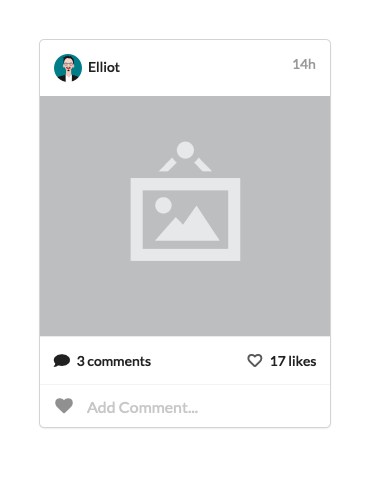
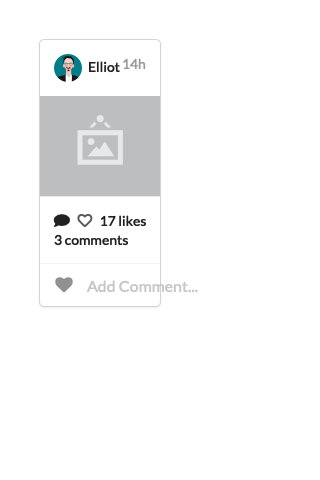
maybe screenshot force is not needed anymore 2

diff --git a/docs/index.html b/docs/index.html
@@ -193,11 +193,10 @@ $(document).ready(function () {
 <div id="shiny.semantic" class="section level1">
 <h1>shiny.semantic</h1>
 <div class="subheader">
-Semantic UI wrapper for Shiny
+<p>Semantic UI wrapper for Shiny</p>
+<p></br></p>
[1 lines of base64/hex data omitted]
 </div>
-<center>
[1 lines of base64/hex data omitted]
-</center>
 <div class="section level2">
 <p>With this library it’s easy to wrap Shiny with <a href="https://github.com/Semantic-Org/Semantic-UI">Semantic UI components</a>. Add a few simple lines of code and some CSS classes to give your UI a fresh, modern and highly interactive look.</p>
 <p><code>master</code> branch contains the stable version. Use <code>develop</code> branch for latest features.</p>
@@ -206,22 +205,18 @@ Semantic UI wrapper for Shiny
 <h2>
 Before
 </h2>
-<br>
-<center>
-<div id="htmlwidget-6549bb56c07b2754489d" style="width:100%;height:90%;" class="uirender html-widget"></div>
-<script type="application/json" data-for="htmlwidget-6549bb56c07b2754489d">{"x":{"ui":"<div class=\"demo\">\n  <div class=\"container-fluid\">\n    <div style=\"margin-left: 20px; background: white\">\n      <div>\n        <div>\n          <a>Client's info<\/a>\n          <p><\/p>\n          <table  class = 'table shiny-table table- spacing-s' style = 'width:auto;'>\n<thead> <tr> <th style='text-align: left;'> Name <\/th> <th style='text-align: left;'> City <\/th> <th style='text-align: left;'> Revenue <\/th>  <\/tr> <\/thead> <tbody>\n  <tr> <td> John Smith <\/td> <td> Warsaw, Poland <\/td> <td> $210.50 <\/td> <\/tr>\n  <tr> <td> Lindsay More <\/td> <td> SF, United States <\/td> <td> $172.78 <\/td> <\/tr>\n   <\/tbody> <\/table>\n        <\/div>\n      <\/div>\n    <\/div>\n  <\/div>\n<\/div>"},"evals":[],"jsHooks":[]}</script>
-</center>
+<p><br></p>
+<div id="htmlwidget-e8143136d124ec330d96" style="width:100%;height:90%;" class="uirender html-widget"></div>
+<script type="application/json" data-for="htmlwidget-e8143136d124ec330d96">{"x":{"ui":"<div class=\"demo\">\n  <div class=\"container-fluid\">\n    <div style=\"margin-left: 20px; background: white\">\n      <div>\n        <div>\n          <a>Client's info<\/a>\n          <p><\/p>\n          <table  class = 'table shiny-table table- spacing-s' style = 'width:auto;'>\n<thead> <tr> <th style='text-align: left;'> Name <\/th> <th style='text-align: left;'> City <\/th> <th style='text-align: left;'> Revenue <\/th>  <\/tr> <\/thead> <tbody>\n  <tr> <td> John Smith <\/td> <td> Warsaw, Poland <\/td> <td> $210.50 <\/td> <\/tr>\n  <tr> <td> Lindsay More <\/td> <td> SF, United States <\/td> <td> $172.78 <\/td> <\/tr>\n   <\/tbody> <\/table>\n        <\/div>\n      <\/div>\n    <\/div>\n  <\/div>\n<\/div>"},"evals":[],"jsHooks":[]}</script>
 </div>
 <br>
 <div class="column">
 <h2>
 After
 </h2>
-<br>
-<center>
-<div id="htmlwidget-a8ea57fbcec17f3ec900" style="width:100%;height:90%;" class="uirender html-widget"></div>
-<script type="application/json" data-for="htmlwidget-a8ea57fbcec17f3ec900">{"x":{"ui":"<div class=\"demo\">\n  <body style=\"min-height: 611px;\">\n    <div class=\"wrapper\">\n      <div class=\"ui raised segment\" style=\"margin-left: 20px; max-width: 350px; width: 100%\">\n        <a class=\"ui green ribbon label\">Client's info<\/a>\n        <p><\/p>\n        <!-- html table generated in R 3.5.1 by xtable 1.8-3 package -->\n<!-- Fri Apr  5 12:47:34 2019 -->\n<table class = 'ui very basic collapsing celled table'>\n<tr> <th> Name <\/th> <th> City <\/th> <th> Revenue <\/th>  <\/tr>\n  <tr> <td> John Smith <\/td> <td> Warsaw, Poland <\/td> <td> $210.50 <\/td> <\/tr>\n  <tr> <td> Lindsay More <\/td> <td> SF, United States <\/td> <td> $172.78 <\/td> <\/tr>\n   <\/table>\n\n      <\/div>\n    <\/div>\n  <\/body>\n<\/div>"},"evals":[],"jsHooks":[]}</script>
-</center>
+<p><br></p>
+<div id="htmlwidget-2d1f22ab4a4037217cb5" style="width:100%;height:90%;" class="uirender html-widget"></div>
+<script type="application/json" data-for="htmlwidget-2d1f22ab4a4037217cb5">{"x":{"ui":"<div class=\"demo\">\n  <body style=\"min-height: 611px;\">\n    <div class=\"wrapper\">\n      <div class=\"ui raised segment\" style=\"margin-left: 20px; max-width: 350px; width: 100%\">\n        <a class=\"ui green ribbon label\">Client's info<\/a>\n        <p><\/p>\n        <!-- html table generated in R 3.5.1 by xtable 1.8-3 package -->\n<!-- Fri Apr  5 12:58:55 2019 -->\n<table class = 'ui very basic collapsing celled table'>\n<tr> <th> Name <\/th> <th> City <\/th> <th> Revenue <\/th>  <\/tr>\n  <tr> <td> John Smith <\/td> <td> Warsaw, Poland <\/td> <td> $210.50 <\/td> <\/tr>\n  <tr> <td> Lindsay More <\/td> <td> SF, United States <\/td> <td> $172.78 <\/td> <\/tr>\n   <\/table>\n\n      <\/div>\n    <\/div>\n  <\/body>\n<\/div>"},"evals":[],"jsHooks":[]}</script>
 </div>
 </div>
 </div>
@@ -269,10 +264,8 @@ server &lt;- shinyServer(function(input, output) {
 
 shinyApp(ui = ui(), server = server)</code></pre>
 <p>and will render a simple button.</p>
-<center>
-<div id="htmlwidget-ce618465960b2cfc8431" style="width:100%;height:100px;" class="uirender html-widget"></div>
-<script type="application/json" data-for="htmlwidget-ce618465960b2cfc8431">{"x":{"ui":"<div class=\"demo\">\n  <div class=\"ui button\">\n    <i class=\"user icon\"><\/i>\n    Icon button\n  <\/div>\n<\/div>"},"evals":[],"jsHooks":[]}</script>
-</center>
+<div id="htmlwidget-518c709cd6d4b04cf13d" style="width:50%;height:100px;" class="uirender html-widget"></div>
+<script type="application/json" data-for="htmlwidget-518c709cd6d4b04cf13d">{"x":{"ui":"<div class=\"demo\">\n  <div class=\"ui button\">\n    <i class=\"user icon\"><\/i>\n    Icon button\n  <\/div>\n<\/div>"},"evals":[],"jsHooks":[]}</script>
 <p>For better understanding it’s good to check <a href="http://semantic-ui.com/introduction/getting-started.html">Semantic UI documentation.</a></p>
 <p><strong>Note #1</strong></p>
 <p>At the moment you have to pass page title in <code>semanticPage()</code></p>
@@ -343,8 +336,8 @@ shinyApp(ui = ui(), server = server)
 <ul>
 <li><strong>Raised segment with list</strong></li>
 </ul>
-<p><div id="htmlwidget-b7ec38fe5c05659c1036" style="width:100%;height:170px;" class="uirender html-widget"></div>
-<script type="application/json" data-for="htmlwidget-b7ec38fe5c05659c1036">{"x":{"ui":"<div class=\"demo\">\n  <div class=\"ui raised segment\">\n    <div class=\"ui relaxed divided list\">\n      <div class=\"item\">\n        <i class=\"large github middle aligned icon\"><\/i>\n        <div class=\"content\">\n          <a class=\"header\">Hello<\/a>\n          <div class=\"description\">Apples<\/div>\n        <\/div>\n      <\/div>\n      <div class=\"item\">\n        <i class=\"large github middle aligned icon\"><\/i>\n        <div class=\"content\">\n          <a class=\"header\">Hello<\/a>\n          <div class=\"description\">Pears<\/div>\n        <\/div>\n      <\/div>\n      <div class=\"item\">\n        <i class=\"large github middle aligned icon\"><\/i>\n        <div class=\"content\">\n          <a class=\"header\">Hello<\/a>\n          <div class=\"description\">Oranges<\/div>\n        <\/div>\n      <\/div>\n    <\/div>\n  <\/div>\n<\/div>"},"evals":[],"jsHooks":[]}</script> <div class="demo-code">
+<p><div id="htmlwidget-908e3ed9537919ac6928" style="width:100%;height:170px;" class="uirender html-widget"></div>
+<script type="application/json" data-for="htmlwidget-908e3ed9537919ac6928">{"x":{"ui":"<div class=\"demo\">\n  <div class=\"ui raised segment\">\n    <div class=\"ui relaxed divided list\">\n      <div class=\"item\">\n        <i class=\"large github middle aligned icon\"><\/i>\n        <div class=\"content\">\n          <a class=\"header\">Hello<\/a>\n          <div class=\"description\">Apples<\/div>\n        <\/div>\n      <\/div>\n      <div class=\"item\">\n        <i class=\"large github middle aligned icon\"><\/i>\n        <div class=\"content\">\n          <a class=\"header\">Hello<\/a>\n          <div class=\"description\">Pears<\/div>\n        <\/div>\n      <\/div>\n      <div class=\"item\">\n        <i class=\"large github middle aligned icon\"><\/i>\n        <div class=\"content\">\n          <a class=\"header\">Hello<\/a>\n          <div class=\"description\">Oranges<\/div>\n        <\/div>\n      <\/div>\n    <\/div>\n  <\/div>\n<\/div>"},"evals":[],"jsHooks":[]}</script> <div class="demo-code">
 <pre>
 <code class="r">div(
   class = "ui raised segment",
@@ -376,10 +369,8 @@ shinyApp(ui = ui(), server = server)
 <ul>
 <li><strong>Interactive card</strong></li>
 </ul>
-<center>
-<div id="htmlwidget-b68798ea239b3663bc79" style="width:100%;height:400px;" class="uirender html-widget"></div>
-<script type="application/json" data-for="htmlwidget-b68798ea239b3663bc79">{"x":{"ui":"<div class=\"demo\">\n  <div class=\"ui card\">\n    <div class=\"content\">\n      <div class=\"right floated meta\">14h<\/div>\n      <img class=\"ui avatar image\" src=\"http://semantic-ui.com/images/avatar/large/elliot.jpg\"/>\n      Elliot\n    <\/div>\n    <div class=\"image\">\n      <img src=\"http://semantic-ui.com/images/wireframe/image.png\"/>\n    <\/div>\n    <div class=\"content\">\n      <span class=\"right floated\">\n        <i class=\"heart outline like icon\"><\/i>\n        17 likes\n      <\/span>\n      <i class=\"comment icon\"><\/i>\n      3 comments\n    <\/div>\n    <div class=\"extra content\">\n      <div class=\"ui large transparent left icon input\">\n        <i class=\"heart ouline icon\"><\/i>\n        <input type=\"text\" placeholder=\"Add Comment...\"/>\n      <\/div>\n    <\/div>\n  <\/div>\n<\/div>"},"evals":[],"jsHooks":[]}</script>
-</center>
+<div id="htmlwidget-d9170581e70ff7f29e46" style="width:50%;height:400px;" class="uirender html-widget"></div>
+<script type="application/json" data-for="htmlwidget-d9170581e70ff7f29e46">{"x":{"ui":"<div class=\"demo\">\n  <div class=\"ui card\">\n    <div class=\"content\">\n      <div class=\"right floated meta\">14h<\/div>\n      <img class=\"ui avatar image\" src=\"http://semantic-ui.com/images/avatar/large/elliot.jpg\"/>\n      Elliot\n    <\/div>\n    <div class=\"image\">\n      <img src=\"http://semantic-ui.com/images/wireframe/image.png\"/>\n    <\/div>\n    <div class=\"content\">\n      <span class=\"right floated\">\n        <i class=\"heart outline like icon\"><\/i>\n        17 likes\n      <\/span>\n      <i class=\"comment icon\"><\/i>\n      3 comments\n    <\/div>\n    <div class=\"extra content\">\n      <div class=\"ui large transparent left icon input\">\n        <i class=\"heart ouline icon\"><\/i>\n        <input type=\"text\" placeholder=\"Add Comment...\"/>\n      <\/div>\n    <\/div>\n  <\/div>\n<\/div>"},"evals":[],"jsHooks":[]}</script>
 <div class="demo-code">
 <pre>
 <code class="r">div(

diff --git a/README.md b/README.md
@@ -6,9 +6,10 @@ shiny.semantic
 
 Semantic UI wrapper for Shiny
 
-<center>
+</br>
+
 [![Travis build status](https://travis-ci.org/Appsilon/shiny.semantic.svg?branch=develop)](https://travis-ci.org/Appsilon/shiny.semantic) [![codecov](https://codecov.io/gh/Appsilon/shiny.semantic/branch/master/graph/badge.svg)](https://codecov.io/gh/Appsilon/shiny.semantic)
-</center>
+
 With this library it's easy to wrap Shiny with [Semantic UI components](https://github.com/Semantic-Org/Semantic-UI). Add a few simple lines of code and some CSS classes to give your UI a fresh, modern and highly interactive look.
 
 `master` branch contains the stable version. Use `develop` branch for latest features.
@@ -17,18 +18,16 @@ With this library it's easy to wrap Shiny with [Semantic UI components](https://
 Before
 </h2>
 <br>
-<center>
+
 ![](inst/assets/README_files/figure-markdown_githubunnamed-chunk-3-1.png)
-</center>
 
 <br>
 <h2>
 After
 </h2>
 <br>
-<center>
+
 ![](inst/assets/README_files/figure-markdown_githubunnamed-chunk-4-1.png)
-</center>
 
 <!-- #Basic tutorial article is available on [Appsilon Data Science blog](your_future_art_link). -->
 <!-- Live demo link below -->
@@ -81,9 +80,8 @@ Basic example will look like this:
 
 and will render a simple button.
 
-<center>
 ![](inst/assets/README_files/figure-markdown_githubunnamed-chunk-6-1.png)
-</center>
+
 For better understanding it's good to check [Semantic UI documentation.](http://semantic-ui.com/introduction/getting-started.html)
 
 **Note \#1**
@@ -197,9 +195,8 @@ Component examples
 <!--/html_preserve-->
 -   **Interactive card**
 
-<center>
 ![](inst/assets/README_files/figure-markdown_githubunnamed-chunk-9-1.png)
-</center>
+
 <!--html_preserve-->
 <pre>
 <code class="r">div(
